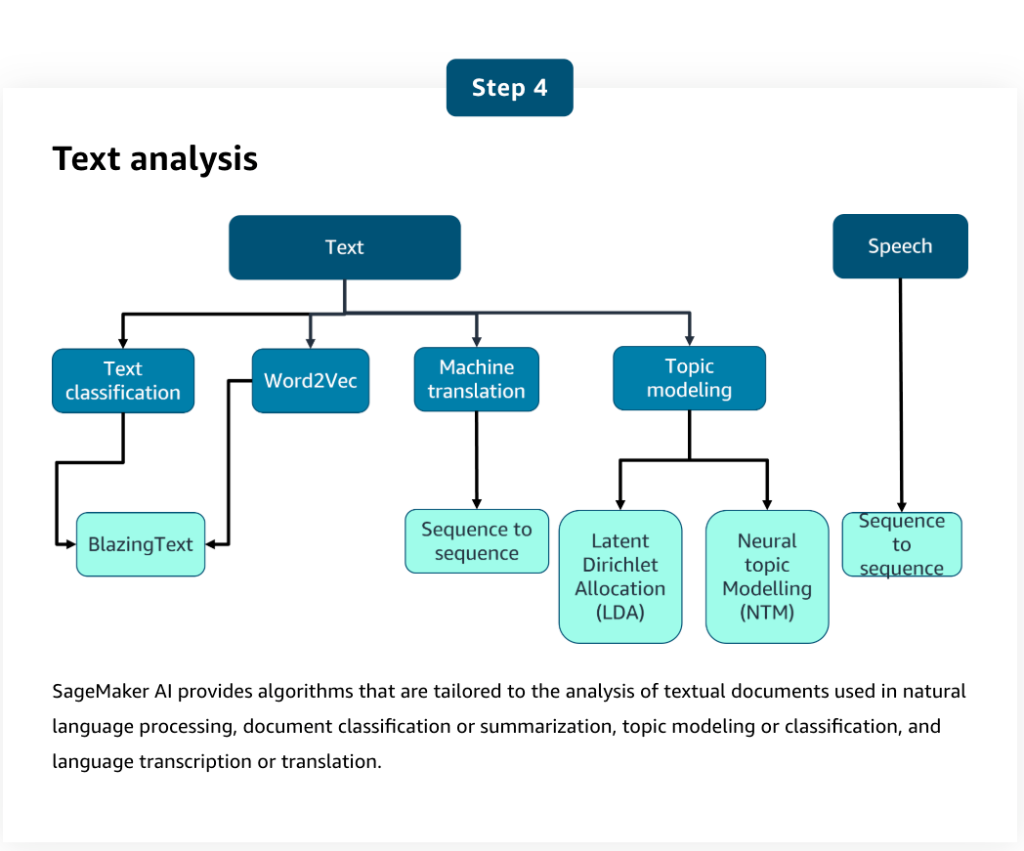
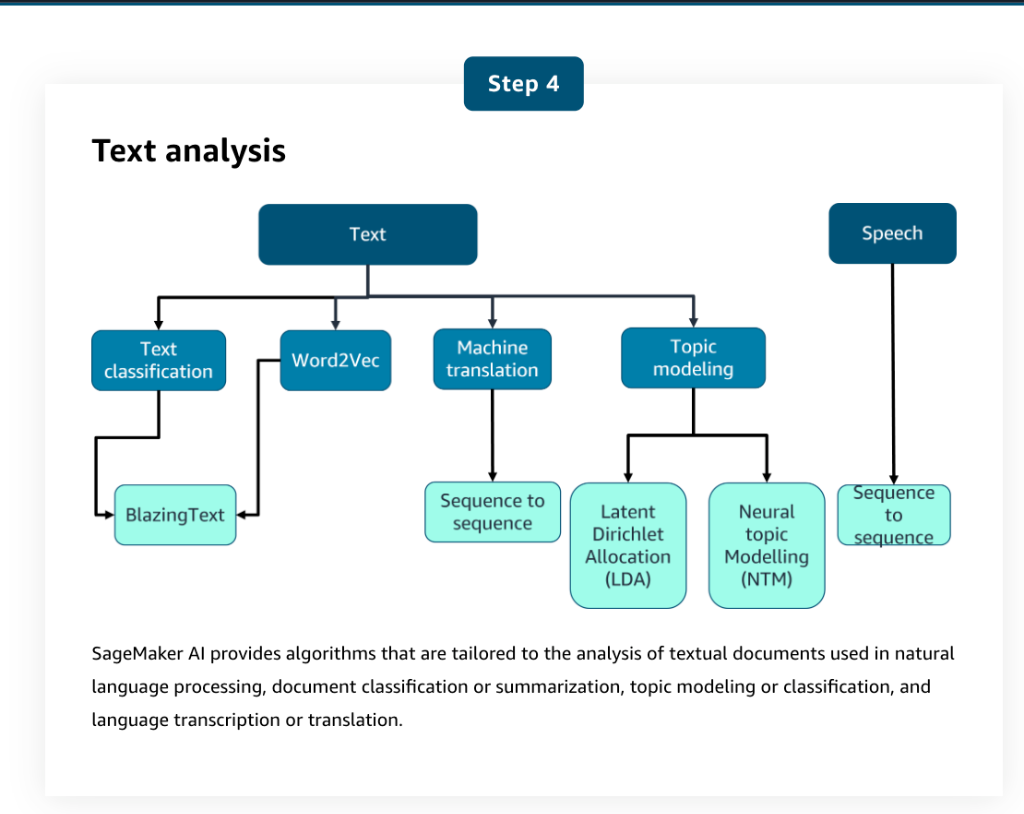
Cleanup and sync remaining changes for Evaluation Metrics

diff --git a/docs/03-generative-ai-fundamentals.md b/docs/03-generative-ai-fundamentals.md
@@ -64,7 +64,9 @@ After the initial pre-training, the model can be further pre-trained on addition
 Pre-trained language models can be optimized through techniques like prompt engineering, retrieval-augmented generation (RAG), and fine-tuning on task-specific data. These methods vary in complexity and cost.
 
 ### 4. Evaluation
-Whether or not you fine-tune a model or use a pre-trained model off the shelf, the next logical step is to evaluate the model. An FM's performance can be measured using appropriate metrics and benchmarks.
+Whether or not you fine-tune a model or use a pre-trained model off the shelf, the next logical step is to evaluate the model. An FM's performance can be measured using appropriate metrics and benchmarks (like ROUGE, BLEU, and Toxicity checks).
+
+See the [Model Evaluation and Metrics](07-model-evaluation-and-metrics.md#generative-ai-metrics-fms) page for a full breakdown.
 
 ### 5. Deployment
 When the FM meets the desired performance criteria, it can be deployed in the target production environment. Deployment can involve integrating the model into applications, APIs, or other software systems.
